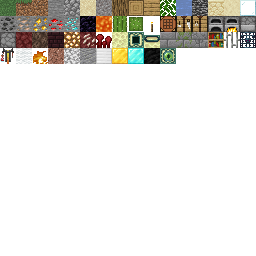
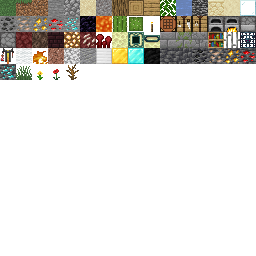
Add files via upload

Changed region(s): [[0.625, 0.1875, 1.0, 0.25], [0.0, 0.25, 0.3125, 0.3125]]

diff --git a/docs/ATLAS_MAP.md b/docs/ATLAS_MAP.md
@@ -5,6 +5,9 @@ Index = row * 16 + column, row-major from top-left.
 
 **Do not renumber these.** The game code references them directly.
 
+Indices 0-57 are unchanged from the previous atlas.
+Indices 58-68 are new: deepslate variants and ground plants.
+
 | Index | Texture | Status |
 |---|---|---|
 | 0 | grass_block_top | ok |
@@ -65,28 +68,14 @@ Index = row * 16 + column, row-major from top-left.
 | 55 | gold_block | ok |
 | 56 | diamond_block | ok |
 | 57 | coal_block | ok |
-| 58 | end_portal_frame_eye | ok (generated in Phase 19: frame top + the ender-eye item art centred) |
-
----
-
-## Phase 21 — tiles reused, none added
-
-The building-block pass added ~90 block ids and did NOT rebuild the atlas, per
-the session brief ("if a required tile is not in ATLAS_MAP.md, use the closest
-existing one"). Every new block samples a tile already listed above:
-
-| New block | Tile reused |
-|---|---|
-| cobblestone stairs / slab / wall | 4 cobblestone |
-| oak stairs / slab / fence / gate / door / trapdoor / sign / item frame | 9 oak_planks |
-| stone brick stairs / slab | 42 stone_bricks |
-| sandstone stairs / slab / flower pot | 13 sandstone + 14 sandstone_top |
-| nether brick stairs / slab | 35 nether_bricks |
-| ladder | 46 iron_bars (the closest rung lattice in the atlas) |
-| bed | 49 white_wool (top/sides) + 9 oak_planks (underside) |
-| potted sapling foliage | 10 oak_leaves |
-| flowing water | 11 water_still, scrolled on its own repeating copy |
-
-Items with no shipped sprite (the five hoes, the shield, and the
-door/trapdoor/sign/bed/frame/pot item forms) are drawn in code —
-`src/render/item_art.js` — rather than substituted with a misleading texture.
+| 58 | deepslate | ok |
+| 59 | cobbled_deepslate | ok |
+| 60 | deepslate_coal_ore | ok |
+| 61 | deepslate_iron_ore | ok |
+| 62 | deepslate_gold_ore | ok |
+| 63 | deepslate_redstone_ore | ok |
+| 64 | deepslate_diamond_ore | ok |
+| 65 | short_grass | ok |
+| 66 | dandelion | ok |
+| 67 | poppy | ok |
+| 68 | dead_bush | ok |
